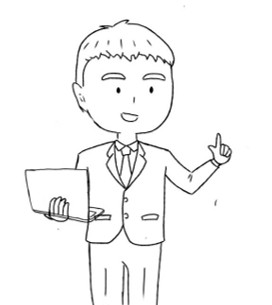
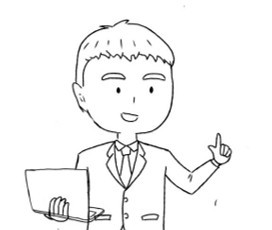
Add files via upload

diff --git a/index.html b/index.html
@@ -131,7 +131,7 @@
 <figure><img src="images/photo2.jpg" alt=""></figure>
 <div class="text">
 <h4>三ツ石悠人先生</h4>
-<p>女性社員が多い当社の魅力を、スタッフインタビューや福利厚生の紹介で上手く表現していただきました。社員からも『会社の良さが伝わる』と好評です。求人応募も増え、特に女性エンジニアからの問い合わせが着実に増えています。</p>
+<p>高校時代でRCAP2021 ベスト8、プログラム開発の経験が豊富。現在も工業大学でプログラムの勉強をに励んでいる。生徒目線で楽しく教える先生。</p>
 <p class="name">株式会社〇〇 代表取締役 吉田様</p>
 </div>
 </div>
